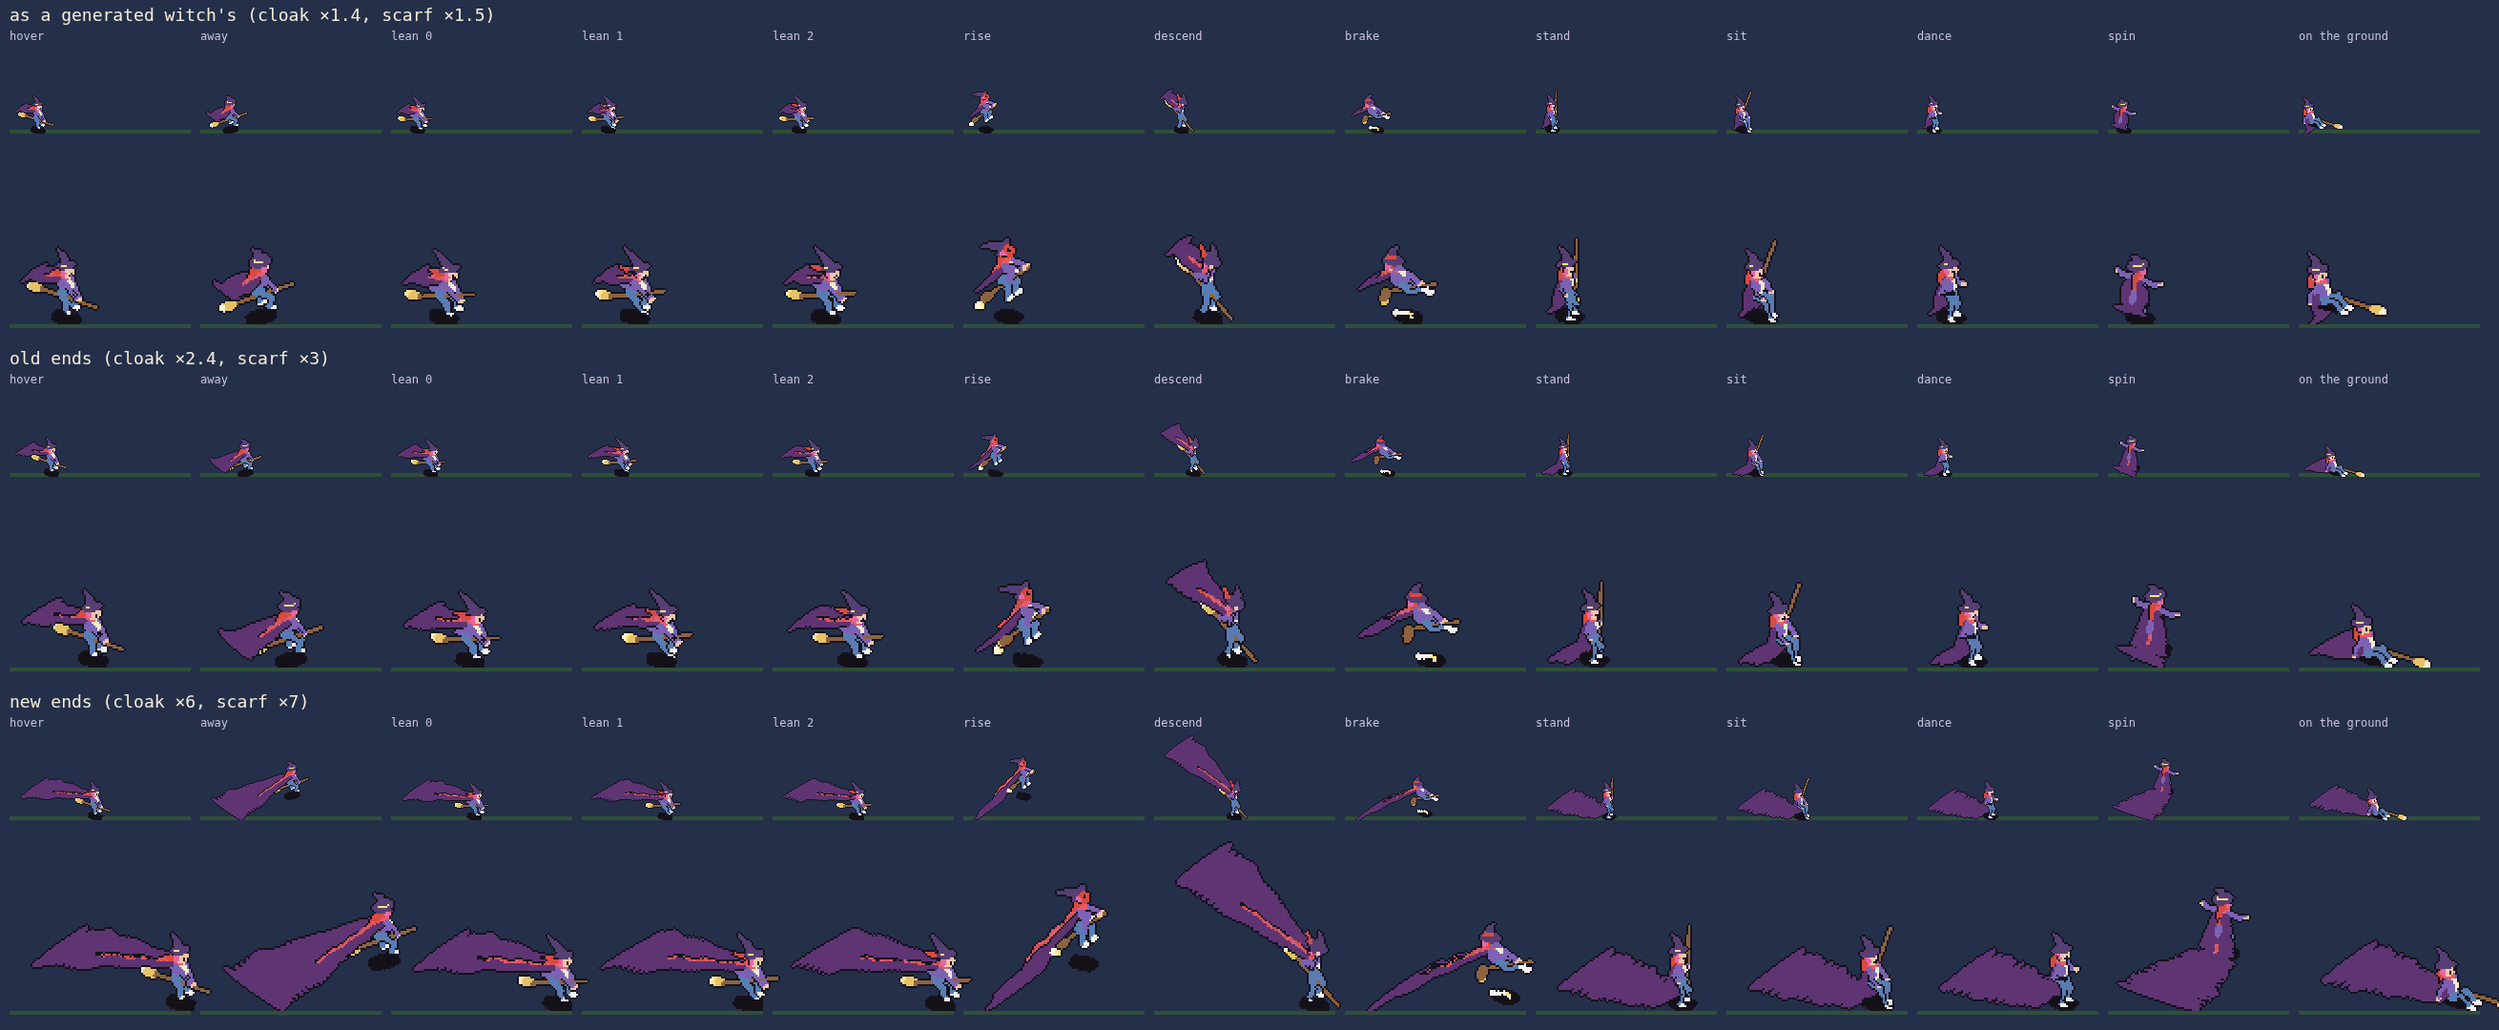
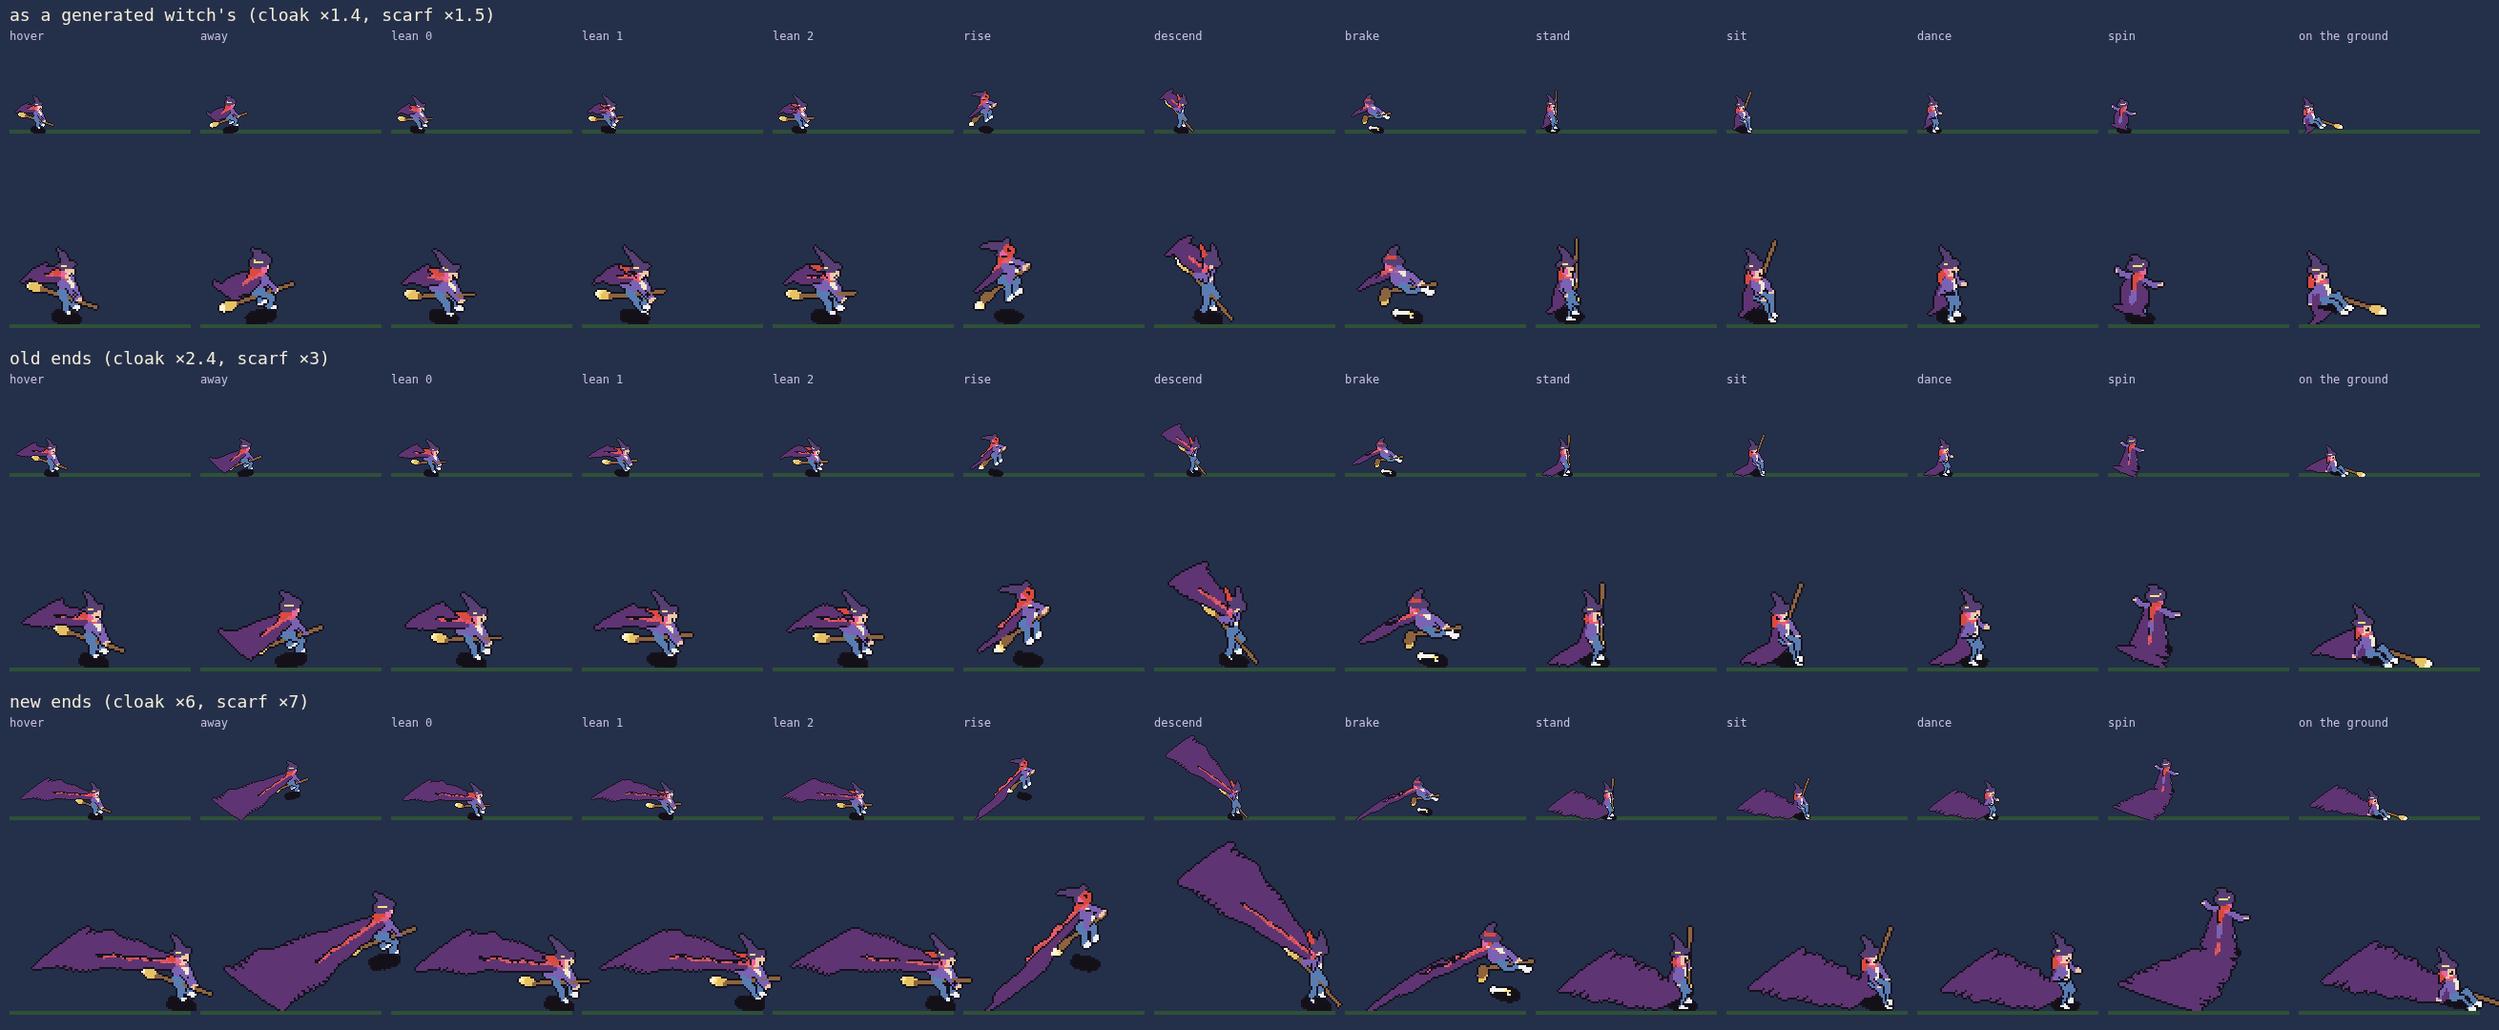
Hat bands read standing at every hat's ends; the witch's pixel grid set by her body, so a long cloak or scarf never moves it; Art Lab rebuilt
Claude-Session: https://claude.ai/code/session_01TZiiLtuTHaQyxfLgD6H57G

diff --git a/tools/art-lab/dist/witch-art-lab.html b/tools/art-lab/dist/witch-art-lab.html
@@ -1650,7 +1650,13 @@ function render(model, { height, scale, facing = "towards", yaw = YAW[facing] ??
   const u0b = Math.min(...body.map(q => q.u0 + (q.uw ? 0 : k))), u1b = Math.max(...body.map(q => q.u1 - (q.uw ? 0 : k)));
   const s = scale ?? height / Math.max(1e-6, u1b - u0b);
   if (measure) return { s };
-  const X0 = Math.min(...all.map(q => q.x0)), X1 = Math.max(...all.map(q => q.x1)), U0 = Math.min(...all.map(q => q.u0)), U1 = Math.max(...all.map(q => q.u1));
+  let X0 = Math.min(...all.map(q => q.x0)), X1 = Math.max(...all.map(q => q.x1)), U0 = Math.min(...all.map(q => q.u0)), U1 = Math.max(...all.map(q => q.u1));
+  // model.phaseOnBody: its pixel grid set by its body alone, the extras (a long cloak's train) only widening the sprite by whole
+  // pixels, so a thin band on the body lands on the same pixels however far an extra reaches (the witch: art/witch.js)
+  if (model.phaseOnBody && body.length) {
+    const X0b = Math.min(...body.map(q => q.x0)), U1b = Math.max(...body.map(q => q.u1));
+    X0 = X0b - Math.ceil((X0b - X0) * s - 1e-9) / s; U1 = U1b + Math.ceil((U1 - U1b) * s - 1e-9) / s;
+  }
   const W = Math.ceil((X1 - X0) * s) + 4, H = Math.ceil((U1 - U0) * s) + 2, sp = new Sprite(W, H);
   const depth = new Float32Array(W * H).fill(Infinity), grp = new Int16Array(W * H).fill(-1);
   // which parts can touch each 8 x 8 tile of pixels
@@ -1991,7 +1997,7 @@ const NEW_HATS = {
     const h = .13 * (L.hatHeight ?? 1), bk = L.hatBrim ?? 1;
     m.ell(brim, [.2 * bk, .014, .17 * bk], M.HAT, { dir, group: 11 });
     for (const s2 of [-1, 1]) m.ell(v3.add(brim, [0, .03, s2 * .16 * bk]), [.13 * bk, .012, .04], M.HAT, { dir: [1, 0, 0], up: [0, 1, -s2 * .9], group: 11 });
-    m.ell(hatAt(brim, up, h * .55), [.095, h * .55, .085], M.HAT, { group: 11, paint: p => v3.dot(v3.sub(p, brim), up) < .03 * (L.hatBand ?? 1) ? M.MAGIC : Math.abs(p[2] - brim[2]) < .012 && v3.dot(v3.sub(p, brim), up) > h * .8 ? M.HAT2 : undefined });
+    m.ell(hatAt(brim, up, h * .55), [.095, h * .55, .085], M.HAT, { group: 11, paint: p => v3.dot(v3.sub(p, brim), up) < .05 * (L.hatBand ?? 1) * Math.max(1, 1 + (bk - 1) * .5) ? M.MAGIC : Math.abs(p[2] - brim[2]) < .012 && v3.dot(v3.sub(p, brim), up) > h * .8 ? M.HAT2 : undefined });
     return hatAt(brim, up, h * 1.1);
   },
   conical(m, L, brim, dir, up) { // the wide straw cone, a glowing bead at its point
@@ -1999,7 +2005,7 @@ const NEW_HATS = {
     const rib = p => Math.floor((Math.atan2(p[2] - brim[2], p[0] - brim[0]) + 4) * 4) % 2 ? M.HAT2 : undefined; // woven ribs
     m.ell(hatAt(brim, up, h * .25), [.21 * bk, h * .3, .2 * bk], M.HAT, { dir: [1, 0, 0], up, group: 11, paint: rib }); // a wide, shallow cone: a flat disc
     m.seg(hatAt(brim, up, h * .3), hatAt(brim, up, h), .1 * Math.min(1.3, bk), .012, M.HAT, { group: 11, paint: rib }); // rising to its point
-    const br = .016 * Math.sqrt(Math.max(1, L.hatHeight ?? 1, bk)); // (a bigger bead on a bigger hat, so it still shows)
+    const br = .03 * Math.sqrt(Math.max(1, L.hatHeight ?? 1, bk)); // (a bigger bead on a bigger hat, so it still shows; at least a pixel and a half across at her size)
     m.ell(hatAt(brim, up, h + .01), [br, br, br], M.MAGIC, { group: 11 });
     return hatAt(brim, up, h + .01 + br * .95);
   },
@@ -2012,14 +2018,15 @@ const NEW_HATS = {
   },
   party(m, L, brim, dir, up) { // a striped party cone with a pompom, a glowing band at its rim
     const h = .24 * (L.hatHeight ?? 1), bk = L.hatBrim ?? 1;
-    m.seg(hatAt(brim, up, 0), hatAt(brim, up, h), .075 * Math.min(1.4, bk), .008, M.HAT, { group: 11, paint: p => { const t = v3.dot(v3.sub(p, brim), up); return t < .02 * (L.hatBand ?? 1) ? M.MAGIC : Math.floor(t * 30) % 2 ? M.HAT2 : undefined; } });
+    m.seg(hatAt(brim, up, 0), hatAt(brim, up, h), .075 * Math.min(1.4, bk), .008, M.HAT, { group: 11, paint: p => { const t = v3.dot(v3.sub(p, brim), up); return t < .045 * (L.hatBand ?? 1) ? M.MAGIC : Math.floor(t * 30) % 2 ? M.HAT2 : undefined; } });
     m.ell(hatAt(brim, up, h + .015), [.03, .03, .03], M.POM, { group: 11 });
+    if (h < .1) m.ell(hatAt(brim, up, .012), [.045, .016, .045], M.MAGIC, { group: 11 }); // (a tiny one: its band a ring round the rim, so it still shows)
     return hatAt(brim, up, h + .045);
   },
   musketeer(m, L, brim, dir, up) { // a wide brim pinned up on one side, a round crown, a great curling plume
     const h = .11 * (L.hatHeight ?? 1), bk = L.hatBrim ?? 1;
     m.ell(brim, [.22 * bk, .014, .19 * bk], M.HAT, { dir: v3.add(dir, [0, .25, 0]), group: 11 });
-    m.ell(hatAt(brim, up, h * .5), [.1, h * .55, .095], M.HAT, { group: 11, paint: p => v3.dot(v3.sub(p, brim), up) < .03 * (L.hatBand ?? 1) * Math.max(1, 1 + (bk - 1) * .8) ? M.MAGIC : undefined });
+    m.ell(hatAt(brim, up, h * .5), [.1, h * .55, .095], M.HAT, { group: 11, paint: p => v3.dot(v3.sub(p, brim), up) < .05 * (L.hatBand ?? 1) * Math.max(1, 1 + (bk - 1) * .8) ? M.MAGIC : undefined });
     const p0 = hatAt(brim, up, h * .7, [.03, 0, .06]), pts = [];
     for (let k = 0; k <= 6; k++) { const t = k / 6, a = .6 + t * 2.2; pts.push([...v3.add(p0, [-Math.sin(a) * .2 * t - .02, Math.cos(a) * -.12 * t + .13 * t, .05 * t]), .035 * (1 - t * .6)]); }
     m.chain(pts, M.WEB, { group: 11 });
@@ -2046,7 +2053,7 @@ const NEW_HATS = {
   },
   mushroom(m, L, brim, dir, up) { // a spotted mushroom cap, its gills glowing underneath
     const h = .09 * (L.hatHeight ?? 1), bk = L.hatBrim ?? 1;
-    m.ell(hatAt(brim, up, h * .45), [.19 * bk, h, .18 * bk], M.HAT, { group: 11, paint: p => v3.dot(v3.sub(p, brim), up) < h * .15 ? M.MAGIC : spotPaint(p) ? M.HAT2 : undefined });
+    m.ell(hatAt(brim, up, h * .45), [.19 * bk, h, .18 * bk], M.HAT, { group: 11, paint: p => v3.dot(v3.sub(p, brim), up) < Math.max(.045, h * .15) ? M.MAGIC : spotPaint(p) ? M.HAT2 : undefined });
     return hatAt(brim, up, h * 1.5);
   },
   traffic(m, L, brim, dir, up) { // a traffic cone, its stripes glowing like reflectors
@@ -2112,8 +2119,8 @@ function drawWrap(m, L, chest, fwd, spine, flying) {
 // as at her shoulders at the top, flaring out down the train like a cape.
 const cloakWidth = d => .165 + Math.min(.6, d * .3);
 // A cloak past the old lengths (Ed, 2026-10-06: "allow a longer cloak"): a train of cloth from her shoulders, streaming out behind
-// her in flight and rippling with the frame, or hanging down her back to the ground and lying along it behind her. Past the first
-// stretch it's `extra`: her size and her lift off the ground don't count it.
+// her in flight and rippling with the frame, or hanging down her back to the ground and lying along it behind her. Past its top
+// it's `extra`: her size, her lift off the ground and her pixel grid don't count it.
 function longCloak(m, L, sh, dir, back, len, flying, patch) {
   const f = L.frame ?? 0, n = Math.ceil(len / .09), step = len / n, pts = [sh];
   let p = sh;
@@ -2125,7 +2132,7 @@ function longCloak(m, L, sh, dir, back, len, flying, patch) {
   }
   for (let i = 0; i < n; i++) {
     const a = pts[i], b = pts[i + 1], d = v3.norm(v3.sub(b, a)), t = (i + .5) / n, onGround = !flying && a[1] <= .031 && b[1] <= .031;
-    m.ell(v3.lerp(a, b, .5), [step * .75, .028, cloakWidth((i + .5) * step)], M.CLOTH, { dir: d, up: flying || onGround ? [0, 1, 0] : back, group: 14, extra: i * step > .7, ...(patch ? { paint: patch } : {}) });
+    m.ell(v3.lerp(a, b, .5), [step * .75, .028, cloakWidth((i + .5) * step)], M.CLOTH, { dir: d, up: flying || onGround ? [0, 1, 0] : back, group: 14, extra: i > 0, ...(patch ? { paint: patch } : {}) });
   }
   m.ell(pts[n], [.05, .025, cloakWidth(len) + .03], M.CLOTH, { dir: v3.norm(v3.sub(pts[n], pts[n - 1])), up: flying || pts[n][1] <= .031 ? [0, 1, 0] : back, group: 14, extra: true });
 }
@@ -2644,7 +2651,8 @@ const WITCH_HEADINGS = { away: -Math.PI / 2, towards: Math.PI / 2 };
 // every sprite; on foot also pair (where a partner meets her, WITCH_PAIRS), back (the conga) and cup (drinking).
 function witchSprite(st = {}, { frame = 0, lean = false, facing = "towards", pose, heading = "side", look } = {}) {
   const h = witchHeight(st), yaw = WITCH_HEADINGS[heading];
-  const model = witchModel({ frame, lean, pose, look }), { sp, project, s } = yaw !== undefined ? render(model, { scale: witchScale(h), yaw }) : pose ? render(model, { scale: witchScale(h), facing }) : look && look !== DEFAULT_LOOK ? render(model, { scale: ownScale(h, frame, lean, facing), facing }) : render(model, { height: h, facing }); // (another look at the scale she has in that pose, so a tall hat doesn't shrink her)
+  const model = witchModel({ frame, lean, pose, look }); model.phaseOnBody = true; // (her train and streaks never move her pixels)
+  const { sp, project, s } = yaw !== undefined ? render(model, { scale: witchScale(h), yaw }) : pose ? render(model, { scale: witchScale(h), facing }) : look && look !== DEFAULT_LOOK ? render(model, { scale: ownScale(h, frame, lean, facing), facing }) : render(model, { height: h, facing }); // (another look at the scale she has in that pose, so a tall hat doesn't shrink her)
   sp.scale = s; // pixels per model unit
   if (model.anchors.hand) sp.anchors = Object.fromEntries(Object.entries(model.anchors).filter(([k]) => k !== "feet").map(([k, p]) => [k, project(p)]));
   cleanFlecks(sp); // (Ed: "The witch has these little flecks … we should remove them")

diff --git a/art/witch.js b/art/witch.js
@@ -129,7 +129,7 @@ const NEW_HATS = {
     const h = .13 * (L.hatHeight ?? 1), bk = L.hatBrim ?? 1;
     m.ell(brim, [.2 * bk, .014, .17 * bk], M.HAT, { dir, group: 11 });
     for (const s2 of [-1, 1]) m.ell(v3.add(brim, [0, .03, s2 * .16 * bk]), [.13 * bk, .012, .04], M.HAT, { dir: [1, 0, 0], up: [0, 1, -s2 * .9], group: 11 });
-    m.ell(hatAt(brim, up, h * .55), [.095, h * .55, .085], M.HAT, { group: 11, paint: p => v3.dot(v3.sub(p, brim), up) < .03 * (L.hatBand ?? 1) ? M.MAGIC : Math.abs(p[2] - brim[2]) < .012 && v3.dot(v3.sub(p, brim), up) > h * .8 ? M.HAT2 : undefined });
+    m.ell(hatAt(brim, up, h * .55), [.095, h * .55, .085], M.HAT, { group: 11, paint: p => v3.dot(v3.sub(p, brim), up) < .05 * (L.hatBand ?? 1) * Math.max(1, 1 + (bk - 1) * .5) ? M.MAGIC : Math.abs(p[2] - brim[2]) < .012 && v3.dot(v3.sub(p, brim), up) > h * .8 ? M.HAT2 : undefined });
     return hatAt(brim, up, h * 1.1);
   },
   conical(m, L, brim, dir, up) { // the wide straw cone, a glowing bead at its point
@@ -137,7 +137,7 @@ const NEW_HATS = {
     const rib = p => Math.floor((Math.atan2(p[2] - brim[2], p[0] - brim[0]) + 4) * 4) % 2 ? M.HAT2 : undefined; // woven ribs
     m.ell(hatAt(brim, up, h * .25), [.21 * bk, h * .3, .2 * bk], M.HAT, { dir: [1, 0, 0], up, group: 11, paint: rib }); // a wide, shallow cone: a flat disc
     m.seg(hatAt(brim, up, h * .3), hatAt(brim, up, h), .1 * Math.min(1.3, bk), .012, M.HAT, { group: 11, paint: rib }); // rising to its point
-    const br = .016 * Math.sqrt(Math.max(1, L.hatHeight ?? 1, bk)); // (a bigger bead on a bigger hat, so it still shows)
+    const br = .03 * Math.sqrt(Math.max(1, L.hatHeight ?? 1, bk)); // (a bigger bead on a bigger hat, so it still shows; at least a pixel and a half across at her size)
     m.ell(hatAt(brim, up, h + .01), [br, br, br], M.MAGIC, { group: 11 });
     return hatAt(brim, up, h + .01 + br * .95);
   },
@@ -150,14 +150,15 @@ const NEW_HATS = {
   },
   party(m, L, brim, dir, up) { // a striped party cone with a pompom, a glowing band at its rim
     const h = .24 * (L.hatHeight ?? 1), bk = L.hatBrim ?? 1;
-    m.seg(hatAt(brim, up, 0), hatAt(brim, up, h), .075 * Math.min(1.4, bk), .008, M.HAT, { group: 11, paint: p => { const t = v3.dot(v3.sub(p, brim), up); return t < .02 * (L.hatBand ?? 1) ? M.MAGIC : Math.floor(t * 30) % 2 ? M.HAT2 : undefined; } });
+    m.seg(hatAt(brim, up, 0), hatAt(brim, up, h), .075 * Math.min(1.4, bk), .008, M.HAT, { group: 11, paint: p => { const t = v3.dot(v3.sub(p, brim), up); return t < .045 * (L.hatBand ?? 1) ? M.MAGIC : Math.floor(t * 30) % 2 ? M.HAT2 : undefined; } });
     m.ell(hatAt(brim, up, h + .015), [.03, .03, .03], M.POM, { group: 11 });
+    if (h < .1) m.ell(hatAt(brim, up, .012), [.045, .016, .045], M.MAGIC, { group: 11 }); // (a tiny one: its band a ring round the rim, so it still shows)
     return hatAt(brim, up, h + .045);
   },
   musketeer(m, L, brim, dir, up) { // a wide brim pinned up on one side, a round crown, a great curling plume
     const h = .11 * (L.hatHeight ?? 1), bk = L.hatBrim ?? 1;
     m.ell(brim, [.22 * bk, .014, .19 * bk], M.HAT, { dir: v3.add(dir, [0, .25, 0]), group: 11 });
-    m.ell(hatAt(brim, up, h * .5), [.1, h * .55, .095], M.HAT, { group: 11, paint: p => v3.dot(v3.sub(p, brim), up) < .03 * (L.hatBand ?? 1) * Math.max(1, 1 + (bk - 1) * .8) ? M.MAGIC : undefined });
+    m.ell(hatAt(brim, up, h * .5), [.1, h * .55, .095], M.HAT, { group: 11, paint: p => v3.dot(v3.sub(p, brim), up) < .05 * (L.hatBand ?? 1) * Math.max(1, 1 + (bk - 1) * .8) ? M.MAGIC : undefined });
     const p0 = hatAt(brim, up, h * .7, [.03, 0, .06]), pts = [];
     for (let k = 0; k <= 6; k++) { const t = k / 6, a = .6 + t * 2.2; pts.push([...v3.add(p0, [-Math.sin(a) * .2 * t - .02, Math.cos(a) * -.12 * t + .13 * t, .05 * t]), .035 * (1 - t * .6)]); }
     m.chain(pts, M.WEB, { group: 11 });
@@ -184,7 +185,7 @@ const NEW_HATS = {
   },
   mushroom(m, L, brim, dir, up) { // a spotted mushroom cap, its gills glowing underneath
     const h = .09 * (L.hatHeight ?? 1), bk = L.hatBrim ?? 1;
-    m.ell(hatAt(brim, up, h * .45), [.19 * bk, h, .18 * bk], M.HAT, { group: 11, paint: p => v3.dot(v3.sub(p, brim), up) < h * .15 ? M.MAGIC : spotPaint(p) ? M.HAT2 : undefined });
+    m.ell(hatAt(brim, up, h * .45), [.19 * bk, h, .18 * bk], M.HAT, { group: 11, paint: p => v3.dot(v3.sub(p, brim), up) < Math.max(.045, h * .15) ? M.MAGIC : spotPaint(p) ? M.HAT2 : undefined });
     return hatAt(brim, up, h * 1.5);
   },
   traffic(m, L, brim, dir, up) { // a traffic cone, its stripes glowing like reflectors
@@ -250,8 +251,8 @@ function drawWrap(m, L, chest, fwd, spine, flying) {
 // as at her shoulders at the top, flaring out down the train like a cape.
 const cloakWidth = d => .165 + Math.min(.6, d * .3);
 // A cloak past the old lengths (Ed, 2026-10-06: "allow a longer cloak"): a train of cloth from her shoulders, streaming out behind
-// her in flight and rippling with the frame, or hanging down her back to the ground and lying along it behind her. Past the first
-// stretch it's `extra`: her size and her lift off the ground don't count it.
+// her in flight and rippling with the frame, or hanging down her back to the ground and lying along it behind her. Past its top
+// it's `extra`: her size, her lift off the ground and her pixel grid don't count it.
 function longCloak(m, L, sh, dir, back, len, flying, patch) {
   const f = L.frame ?? 0, n = Math.ceil(len / .09), step = len / n, pts = [sh];
   let p = sh;
@@ -263,7 +264,7 @@ function longCloak(m, L, sh, dir, back, len, flying, patch) {
   }
   for (let i = 0; i < n; i++) {
     const a = pts[i], b = pts[i + 1], d = v3.norm(v3.sub(b, a)), t = (i + .5) / n, onGround = !flying && a[1] <= .031 && b[1] <= .031;
-    m.ell(v3.lerp(a, b, .5), [step * .75, .028, cloakWidth((i + .5) * step)], M.CLOTH, { dir: d, up: flying || onGround ? [0, 1, 0] : back, group: 14, extra: i * step > .7, ...(patch ? { paint: patch } : {}) });
+    m.ell(v3.lerp(a, b, .5), [step * .75, .028, cloakWidth((i + .5) * step)], M.CLOTH, { dir: d, up: flying || onGround ? [0, 1, 0] : back, group: 14, extra: i > 0, ...(patch ? { paint: patch } : {}) });
   }
   m.ell(pts[n], [.05, .025, cloakWidth(len) + .03], M.CLOTH, { dir: v3.norm(v3.sub(pts[n], pts[n - 1])), up: flying || pts[n][1] <= .031 ? [0, 1, 0] : back, group: 14, extra: true });
 }
@@ -782,7 +783,8 @@ export const WITCH_HEADINGS = { away: -Math.PI / 2, towards: Math.PI / 2 };
 // every sprite; on foot also pair (where a partner meets her, WITCH_PAIRS), back (the conga) and cup (drinking).
 export function witchSprite(st = {}, { frame = 0, lean = false, facing = "towards", pose, heading = "side", look } = {}) {
   const h = witchHeight(st), yaw = WITCH_HEADINGS[heading];
-  const model = witchModel({ frame, lean, pose, look }), { sp, project, s } = yaw !== undefined ? render(model, { scale: witchScale(h), yaw }) : pose ? render(model, { scale: witchScale(h), facing }) : look && look !== DEFAULT_LOOK ? render(model, { scale: ownScale(h, frame, lean, facing), facing }) : render(model, { height: h, facing }); // (another look at the scale she has in that pose, so a tall hat doesn't shrink her)
+  const model = witchModel({ frame, lean, pose, look }); model.phaseOnBody = true; // (her train and streaks never move her pixels)
+  const { sp, project, s } = yaw !== undefined ? render(model, { scale: witchScale(h), yaw }) : pose ? render(model, { scale: witchScale(h), facing }) : look && look !== DEFAULT_LOOK ? render(model, { scale: ownScale(h, frame, lean, facing), facing }) : render(model, { height: h, facing }); // (another look at the scale she has in that pose, so a tall hat doesn't shrink her)
   sp.scale = s; // pixels per model unit
   if (model.anchors.hand) sp.anchors = Object.fromEntries(Object.entries(model.anchors).filter(([k]) => k !== "feet").map(([k, p]) => [k, project(p)]));
   cleanFlecks(sp); // (Ed: "The witch has these little flecks … we should remove them")

diff --git a/art/model3d.js b/art/model3d.js
@@ -124,7 +124,13 @@ export function render(model, { height, scale, facing = "towards", yaw = YAW[fac
   const u0b = Math.min(...body.map(q => q.u0 + (q.uw ? 0 : k))), u1b = Math.max(...body.map(q => q.u1 - (q.uw ? 0 : k)));
   const s = scale ?? height / Math.max(1e-6, u1b - u0b);
   if (measure) return { s };
-  const X0 = Math.min(...all.map(q => q.x0)), X1 = Math.max(...all.map(q => q.x1)), U0 = Math.min(...all.map(q => q.u0)), U1 = Math.max(...all.map(q => q.u1));
+  let X0 = Math.min(...all.map(q => q.x0)), X1 = Math.max(...all.map(q => q.x1)), U0 = Math.min(...all.map(q => q.u0)), U1 = Math.max(...all.map(q => q.u1));
+  // model.phaseOnBody: its pixel grid set by its body alone, the extras (a long cloak's train) only widening the sprite by whole
+  // pixels, so a thin band on the body lands on the same pixels however far an extra reaches (the witch: art/witch.js)
+  if (model.phaseOnBody && body.length) {
+    const X0b = Math.min(...body.map(q => q.x0)), U1b = Math.max(...body.map(q => q.u1));
+    X0 = X0b - Math.ceil((X0b - X0) * s - 1e-9) / s; U1 = U1b + Math.ceil((U1 - U1b) * s - 1e-9) / s;
+  }
   const W = Math.ceil((X1 - X0) * s) + 4, H = Math.ceil((U1 - U0) * s) + 2, sp = new Sprite(W, H);
   const depth = new Float32Array(W * H).fill(Infinity), grp = new Int16Array(W * H).fill(-1);
   // which parts can touch each 8 x 8 tile of pixels
